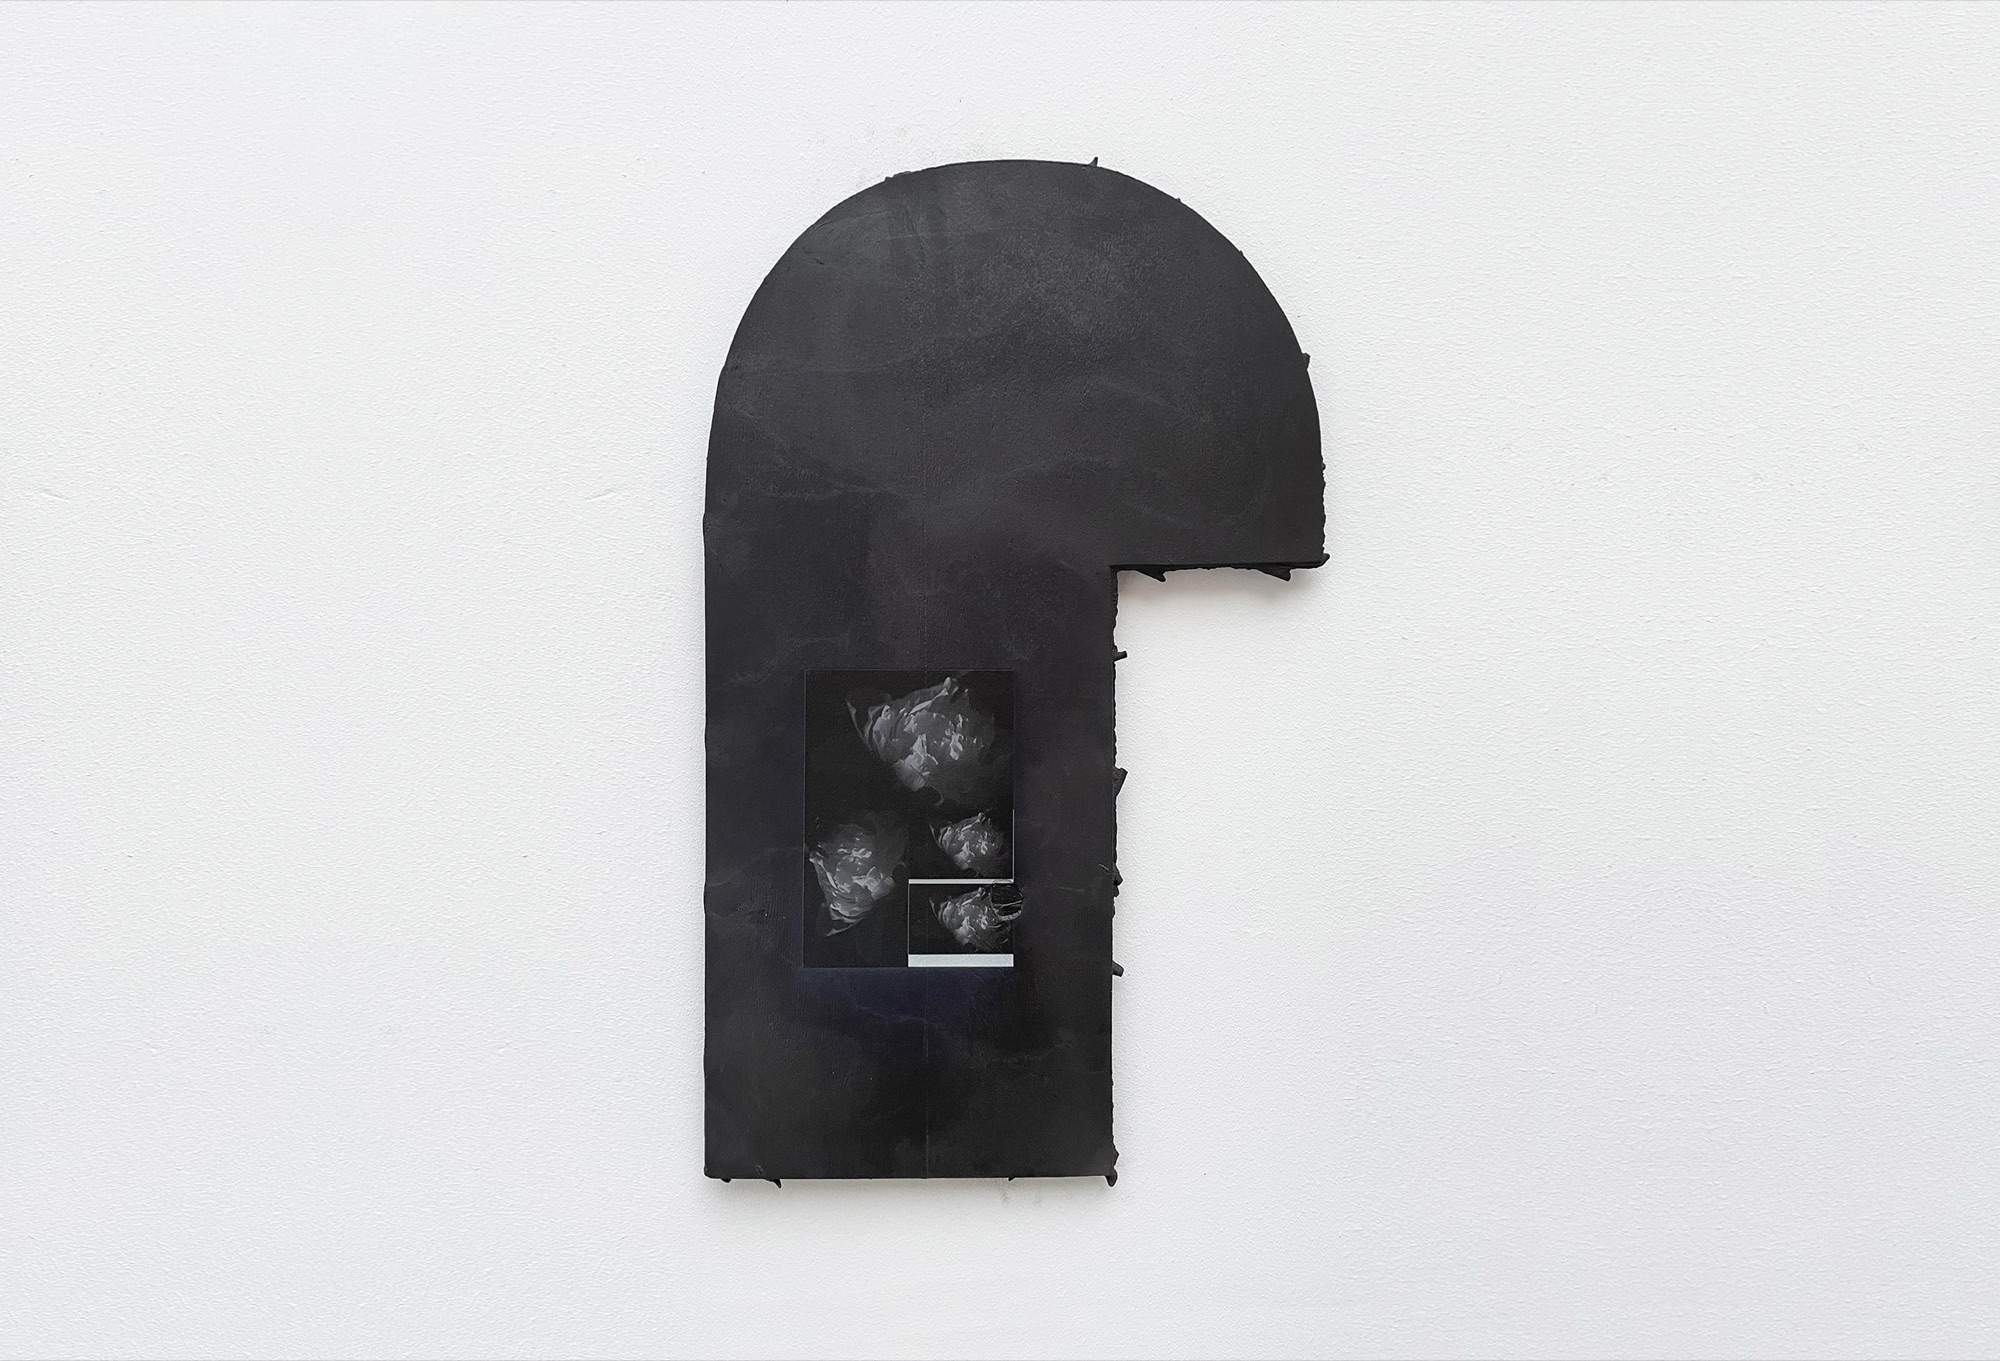
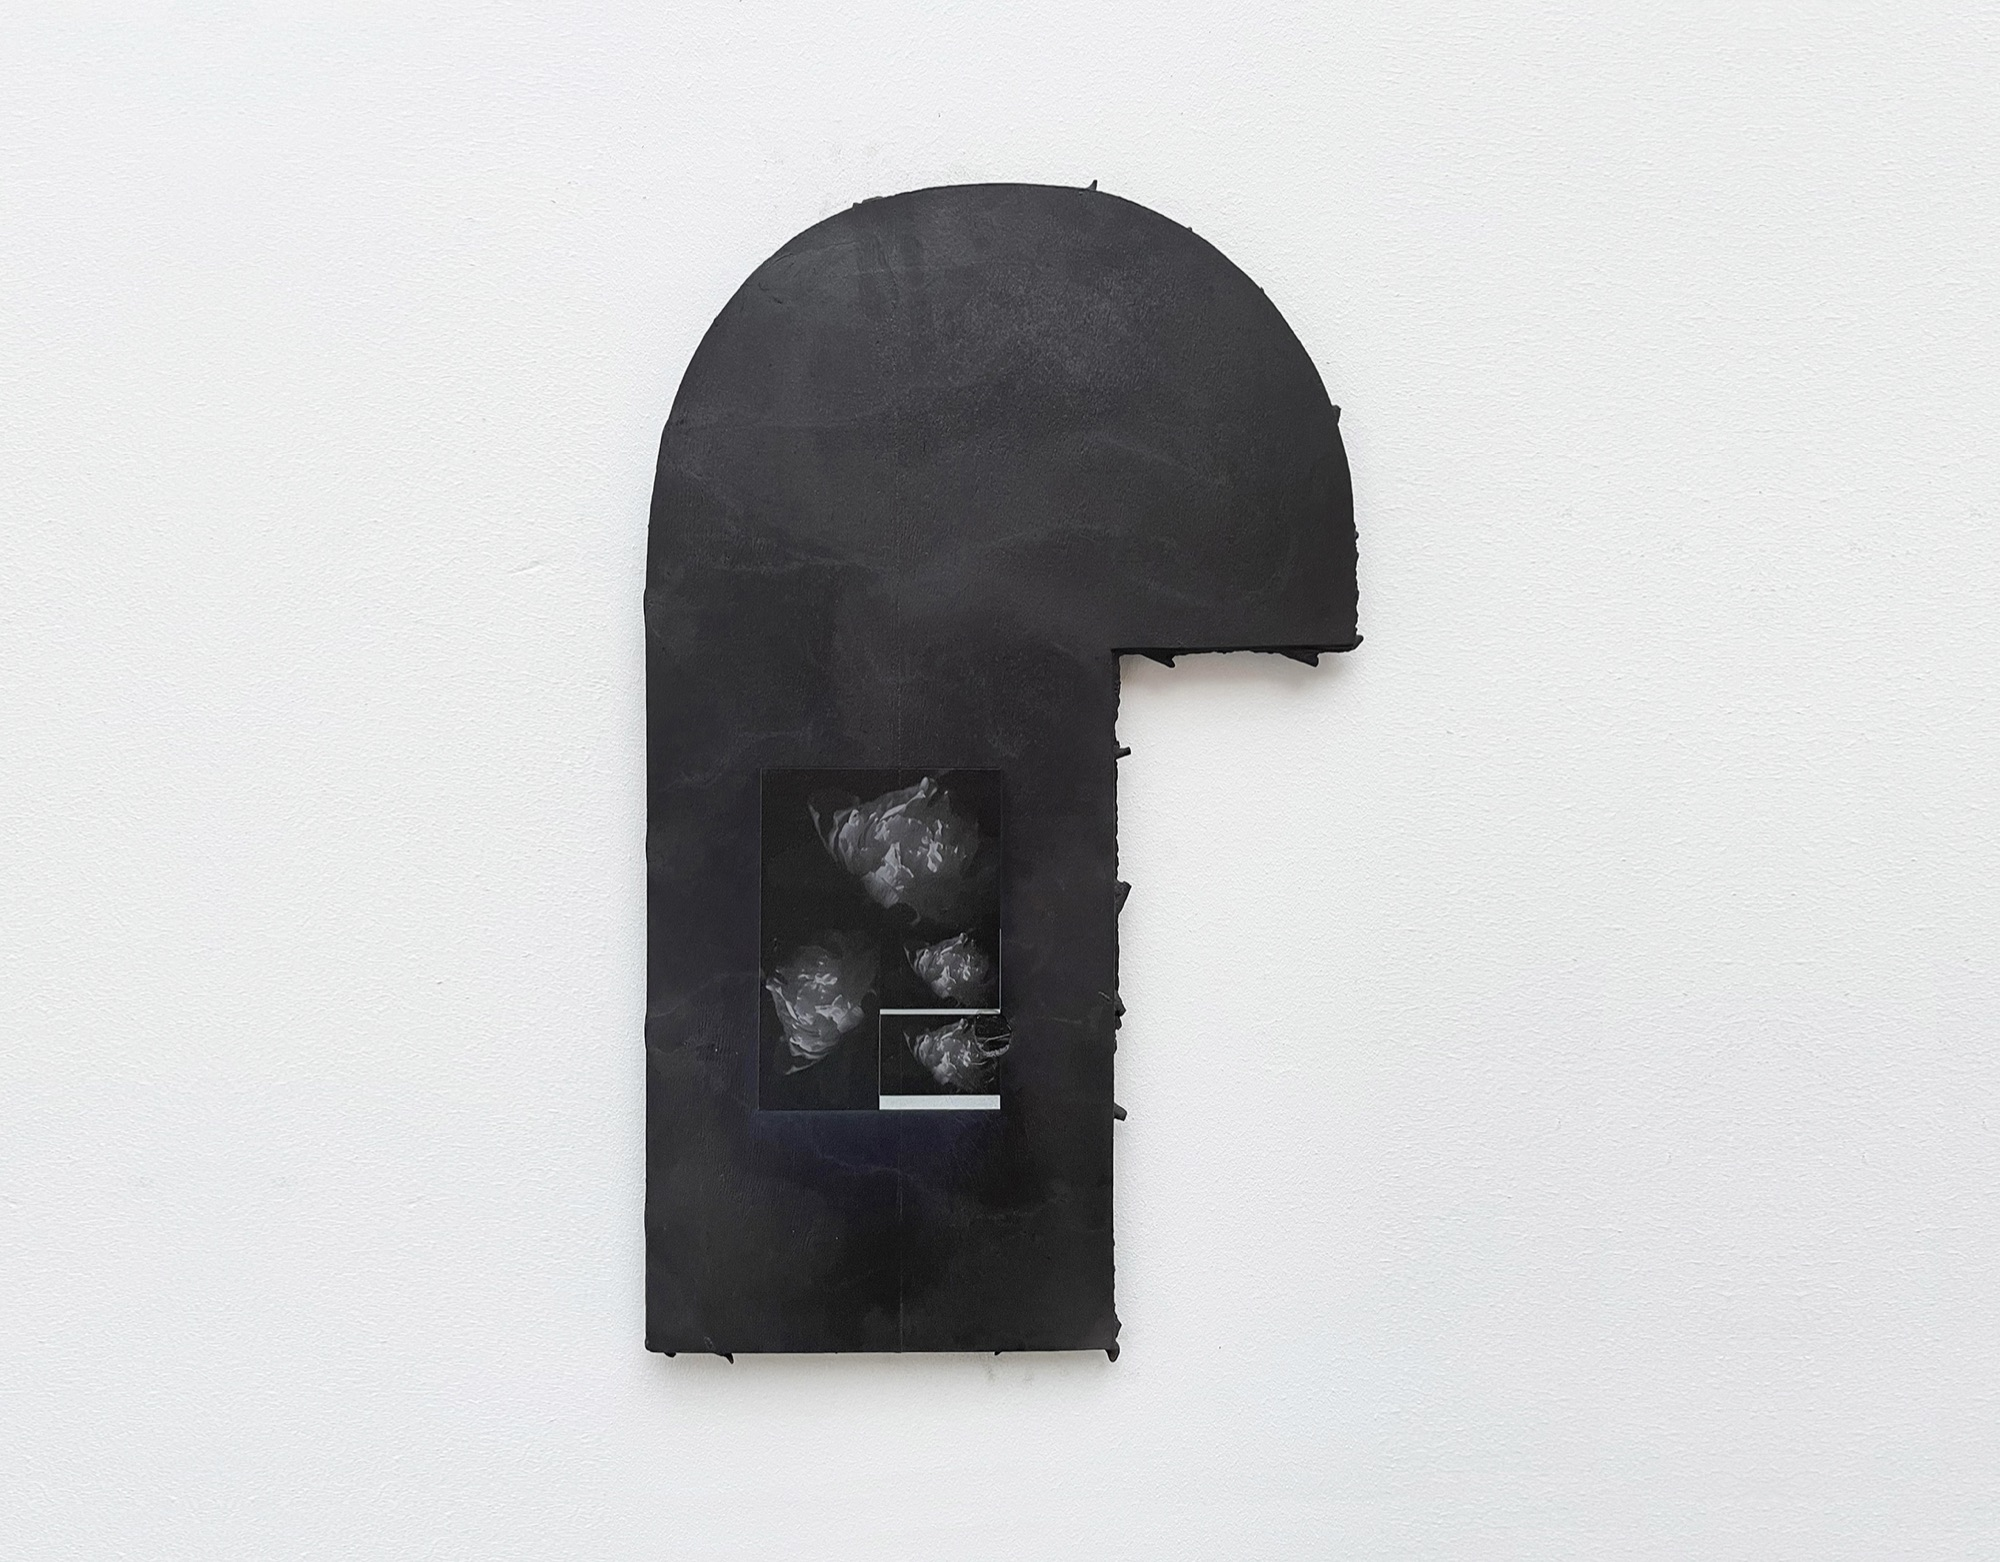
Move black_hammer_peonie_testsheet_web.jpg to page 33, remove square variant
Page 37 temporarily mirrors the same image pending the new Louis Reed
file. Cache-busted with ?v=2 since this filename was re-uploaded with
different bytes earlier today.

diff --git a/index.html b/index.html
@@ -592,8 +592,8 @@
 <!-- cms-item-start -->
             <!-- primary page identifier: data-page -->
             <!-- Normal Size -->
-            <a onclick="showArtworkPage(this, 'image')" data-file="black_hammer_peonie_testsheet_square_web.jpg" data-page="33">
-                <img src="thumbs/black_hammer_peonie_testsheet_square_web.jpg" alt="Black Hammer Peony Testsheet | 2020 | uv print on anodized cast aluminium | 50 x 30 cm | https://www.bistro21.org/exhibitions/u-dont-even-know-me-like-that-zoe-field-martyn-reynolds-lilli-thiessen/" loading="lazy">
+            <a onclick="showArtworkPage(this, 'image')" data-file="black_hammer_peonie_testsheet_web.jpg?v=2" data-page="33">
+                <img src="thumbs/black_hammer_peonie_testsheet_web.jpg?v=2" alt="Black Hammer Peony Testsheet | 2020 | uv print on anodized cast aluminium | 50 x 30 cm | https://www.bistro21.org/exhibitions/u-dont-even-know-me-like-that-zoe-field-martyn-reynolds-lilli-thiessen/" loading="lazy">
             </a>
             <!-- cms-item-end -->
 
@@ -624,8 +624,8 @@
 <!-- cms-item-start -->
             <!-- primary page identifier: data-page -->
             <!-- Normal Size -->
-            <a onclick="showArtworkPage(this, 'image')" data-file="black_hammer_peonie_testsheet_web.jpg" data-page="37">
-                <img src="thumbs/black_hammer_peonie_testsheet_web.jpg" alt="Black Hammer Nixon Banquet Testsheet | 2020 | anodized cast aluminum, uv print | 48 x 30 cm | https://www.instagram.com/tv/CYH9eNpppD5/?utm_source=ig_web_copy_link&amp;igsh=MzRlODBiNWFlZA==" loading="lazy">
+            <a onclick="showArtworkPage(this, 'image')" data-file="black_hammer_peonie_testsheet_web.jpg?v=2" data-page="37">
+                <img src="thumbs/black_hammer_peonie_testsheet_web.jpg?v=2" alt="Black Hammer Nixon Banquet Testsheet | 2020 | anodized cast aluminum, uv print | 48 x 30 cm | https://www.instagram.com/tv/CYH9eNpppD5/?utm_source=ig_web_copy_link&amp;igsh=MzRlODBiNWFlZA==" loading="lazy">
             </a>
             <!-- cms-item-end -->
 
